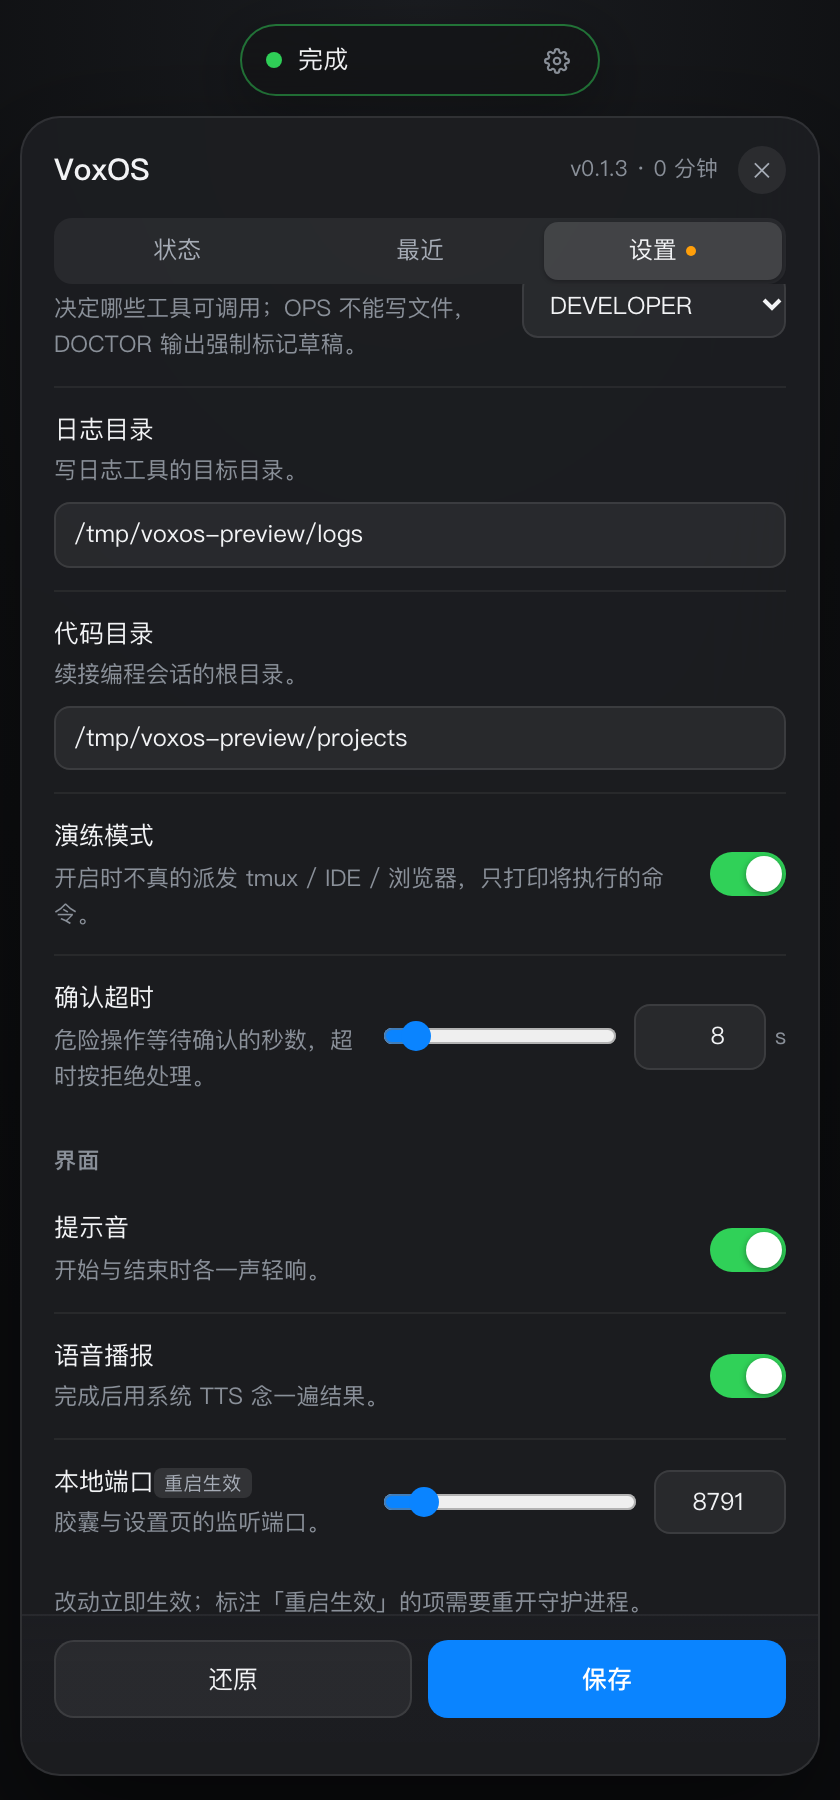
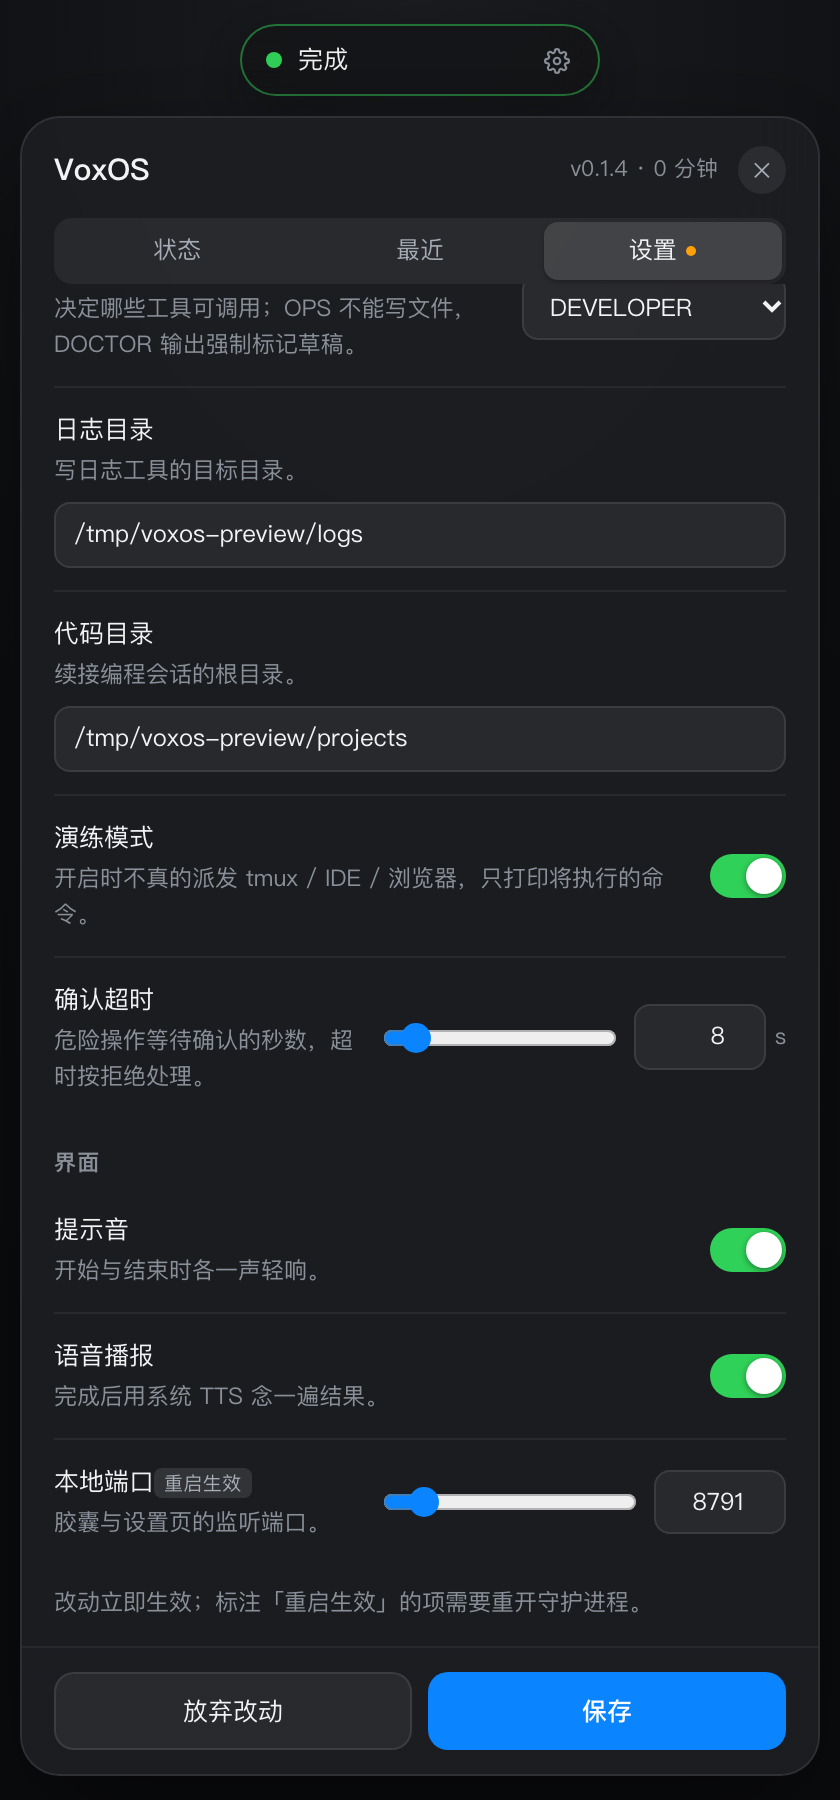
fix(ui): 保存条下面漏内容、三按钮配比、截图被首屏状态覆盖
三个界面缺陷，都在真实 420×620 窗口里才露出来。

#30 保存条下面漏出 16px 正在滚的内容。滚动容器 .body 有 padding-bottom:16px，
而 sticky 元素只能贴到内容盒底，那 16px 就露出一条滚到一半的字段。把底部留白从
.body 挪到 .view 上，保存条的 margin-bottom:-16px 正好把它抵掉。量过：改前
actions.bottom=461 而 body.bottom=477，改后两者都是 477。

#26 三个按钮并排时「保存」只有 104px，比次要按钮的 154px 还窄——主操作最不显眼。
次要按钮挂 .sec（flex:0 0 auto），改后 84/84/174。

#31 状态截图会被首屏那次 /state 请求覆盖回真实状态：灌了几条历史之后，胶囊从
「聆听中」变成了「完成」，图和文对不上。截图脚本先等首屏落地再摆姿势。

顺带给 scripts/shot.py 加 settle()：headless Chrome 不主动产帧，CSS transition 和
依赖帧的 max-height 变化会永远停在起始值——getComputedStyle 读到的是改之前的样子，
连注入 !important 都压不住。截图前用两张 quality=1 的 jpeg 把动画时钟推过去。
这条同时解释了为什么确认卡那条 :has() 规则"看起来没生效"（其实一直生效）。

十个状态全部重截。

diff --git a/web/pill.html b/web/pill.html
@@ -104,7 +104,10 @@
     background:var(--warn);margin-left:5px;vertical-align:1.5px}
   .tabs button.dirty .mark{display:inline-block}
 
-  .body{padding:14px 16px 16px;overflow-y:auto;overscroll-behavior:contain}
+  /* 底部留白放在 .view 上，不放在滚动容器上：滚动容器一旦有下内边距，
+     sticky 的保存条只能贴到内容盒底，那 16px 会露出一条正在滚的内容。 */
+  .body{padding:14px 16px 0;overflow-y:auto;overscroll-behavior:contain}
+  .view{padding-bottom:16px}
   .body::-webkit-scrollbar{width:8px}
   .body::-webkit-scrollbar-thumb{background:rgba(255,255,255,.12);border-radius:4px}
   .view[hidden]{display:none}
@@ -187,6 +190,8 @@
   .btn.primary{background:var(--accent);border-color:transparent;color:#fff;font-weight:500}
   .btn.primary:hover{filter:brightness(1.08)}
   .btn:disabled{opacity:.45;cursor:default}
+  /* 三个按钮时次要按钮收窄，把宽度让给「保存」——它才是这一栏的主语 */
+  .btn.sec{flex:0 0 auto;padding:9px 16px}
 
   /* 确认卡 */
   .confirm{width:100%;margin-top:2px;background:rgba(255,159,10,.1);border:1px solid rgba(255,159,10,.35);
@@ -274,8 +279,9 @@
       <div class="view" data-view="settings" hidden>
         <div id="groups"></div>
         <div class="hint">改动立即生效；标注「重启生效」的项需要重开守护进程。</div>
-        <div class="actions">
-          <button class="btn" id="reset">还原</button>
+        <div class="actions" id="actions">
+          <button class="btn" id="undo" hidden title="撤销上一次保存，配置退回保存前的样子">撤销保存</button>
+          <button class="btn" id="reset" disabled title="放弃没保存的改动，重新读当前配置">放弃改动</button>
           <button class="btn primary" id="save" disabled>保存</button>
         </div>
       </div>
@@ -460,7 +466,16 @@ async function loadSettings() {
       </div>`).join('');
     bindFields();
     markDirty();
+    setUndo(data.undo);
   } catch (error) { toast(error.message, true); }
+}
+
+/* 撤销只退一步：有备份才出现，退完就消失。没有可退的步骤时不留一个灰按钮在那儿。 */
+function setUndo(available) {
+  $('undo').hidden = !available;
+  $('undo').classList.toggle('sec', !!available);
+  $('reset').classList.toggle('sec', !!available);
+  if (!available) disarmUndo();
 }
 
 function fieldHtml(field) {
@@ -513,10 +528,12 @@ function bindFields() {
   });
 }
 
-/* 保存条在滚动区里，改一个开关就可能滚出视野——页签上点个点，保存按钮跟着亮 */
+/* 保存条在滚动区里，改一个开关就可能滚出视野——页签上点个点，保存按钮跟着亮。
+   「放弃改动」只在真的有改动时可用：没改的时候它无事可做，亮着只会让人点。 */
 function markDirty() {
   const pending = Object.keys(dirty).length > 0;
   $('save').disabled = !pending;
+  $('reset').disabled = !pending;
   document.querySelector('[data-tab="settings"]').classList.toggle('dirty', pending);
 }
 
@@ -535,6 +552,33 @@ $('save').addEventListener('click', async () => {
 });
 
 $('reset').addEventListener('click', () => { settingsCache = null; dirty = {}; loadSettings(); });
+
+/* 撤销不可逆（退完这一步就没了），所以要点两下：第一下把按钮变成「确认撤销」，
+   三秒不动自己变回来。比弹系统对话框轻，也比一点就退安全。 */
+let undoArmed = 0;
+function disarmUndo() {
+  clearTimeout(undoArmed);
+  undoArmed = 0;
+  $('undo').textContent = '撤销保存';
+}
+
+$('undo').addEventListener('click', async () => {
+  if (!undoArmed) {
+    $('undo').textContent = '确认撤销';
+    undoArmed = setTimeout(disarmUndo, 3000);
+    return;
+  }
+  disarmUndo();
+  $('undo').disabled = true;
+  try {
+    await api('/api/settings/undo', {method:'POST', body:'{}'});
+    toast('已撤销上一次保存');
+    settingsCache = null; dirty = {};
+    await loadSettings();
+    await loadStatus();
+  } catch (error) { toast(error.message, true); }
+  finally { $('undo').disabled = false; }
+});
 
 /* ---------------- 指令与录入 ---------------- */
 async function send() {

diff --git a/scripts/shot.py b/scripts/shot.py
@@ -169,6 +169,18 @@ def page_socket(port: int, timeout: float = 20.0) -> str:
     raise RuntimeError("连不上 Chrome 调试端口")
 
 
+def settle(cdp: Cdp, frames: int = 2) -> None:
+    """逼出几帧再截图。
+
+    headless Chrome 不主动产帧，而 CSS transition 靠帧推进——不逼帧的话过渡会永远停在
+    起始值：`getComputedStyle` 读到的是改之前的样子，截出来的图也是。这里用最便宜的
+    jpeg 截两帧把动画时钟推过去，正式那一张才是落定的状态。
+    """
+    for _ in range(frames):
+        cdp.call("Page.captureScreenshot", format="jpeg", quality=1)
+        time.sleep(0.05)
+
+
 def shot(cdp: Cdp, spec: dict, base: str, out: Path) -> Path:
     """进入一个状态并截图，按 .stage 的实际高度裁切。"""
     cdp.call("Emulation.setDeviceMetricsOverride", width=spec.get("width", 420),
@@ -187,6 +199,7 @@ def shot(cdp: Cdp, spec: dict, base: str, out: Path) -> Path:
         point = json.loads(box)
         cdp.call("Input.dispatchMouseEvent", type="mouseMoved", **point)
         time.sleep(0.2)
+    settle(cdp)
     clip = cdp.js("""(() => {
         const stage = document.querySelector('.stage').getBoundingClientRect();
         const toast = document.getElementById('toast');
@@ -230,9 +243,13 @@ def main() -> int:
 # setup 里调用的都是页面自己的函数（render / open / setOnboard），
 # 走的是真实渲染路径，不是另画一张假图。setup 可以返回 Promise，会被等待。
 SPECS = [
+    # 首屏会拉一次 /state 并按服务端事实重绘，等它落地再摆姿势，否则会被它覆盖回去
     {"name": "status", "path": "/?panel=status&still=1",
-     "setup": "render({state:'listening', label:'聆听中'})"},
-    {"name": "status-hover", "path": "/?panel=status&still=1", "hover": "#pill"},
+     "setup": "new Promise(ok => setTimeout(() => {"
+              "render({state:'listening', label:'聆听中'}); ok(true); }, 700))"},
+    {"name": "status-hover", "path": "/?panel=status&still=1", "hover": "#pill",
+     "setup": "new Promise(ok => setTimeout(() => {"
+              "render({state:'listening', label:'聆听中'}); ok(true); }, 700))"},
     {"name": "recent", "path": "/?panel=recent&still=1",
      "setup": "switchTab('recent')"},
     {"name": "confirm", "path": "/?panel=status&still=1",
@@ -256,6 +273,9 @@ SPECS = [
      "setup": "(() => { const el = document.querySelector('#f-audio-vad_threshold');"
               "el.value = '0.86'; el.dispatchEvent(new Event('input'));"
               "document.querySelector('.body').scrollTop = 99999; })()"},
+    # 有备份时保存条多出「撤销」：三个按钮在 400px 里怎么分宽度，得量出来看
+    {"name": "settings-undo", "path": "/settings?still=1",
+     "setup": "(() => { setUndo(true); document.querySelector('.body').scrollTop = 99999; })()"},
     {"name": "narrow", "path": "/?panel=recent&still=1", "width": 340,
      "setup": "switchTab('recent')"},
 ]
